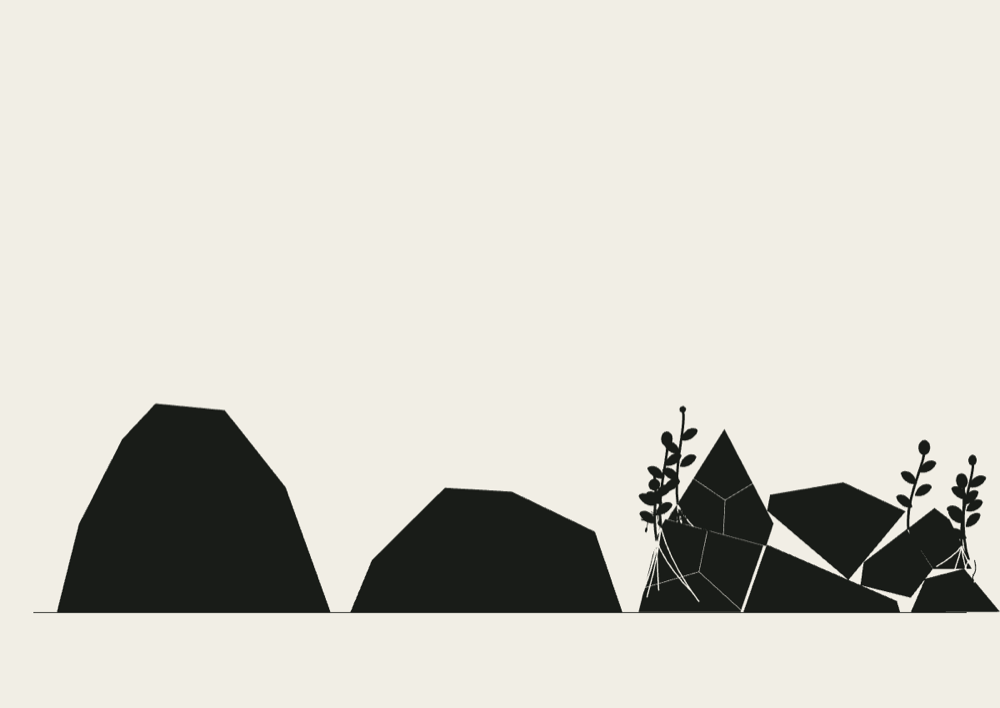
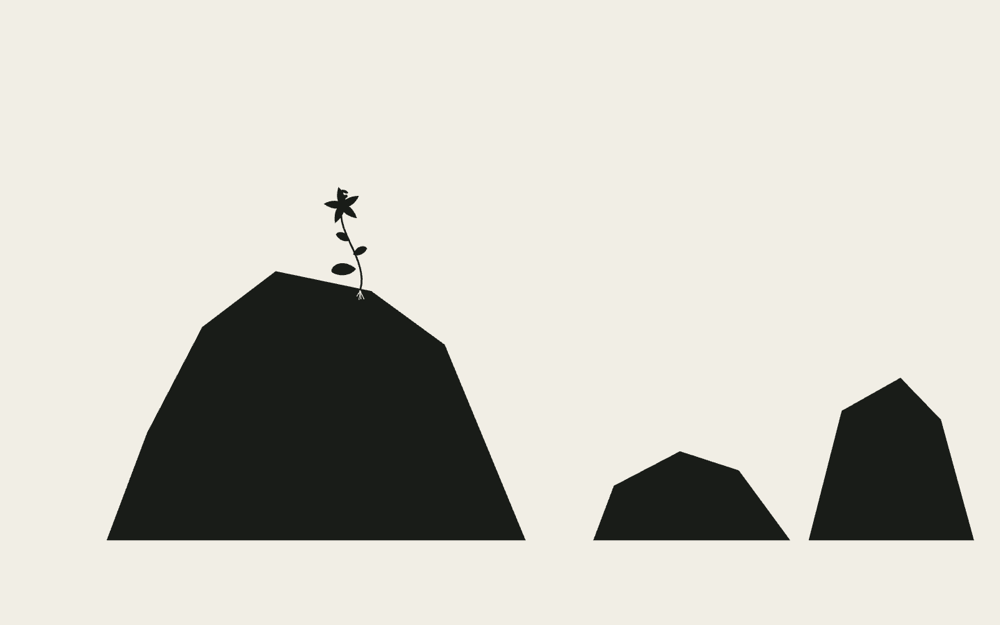
ruin

Changed region(s): [[0.031, 0.304, 1.0, 0.8816]]

diff --git a/pieces/061-root-ruin/sketch.js b/pieces/061-root-ruin/sketch.js
@@ -6,16 +6,17 @@ const ink='#191c18',paper='#f1eee5',W=1200,H=850,floor=735;
 const rand=(a,b)=>a+Math.random()*(b-a),clamp=(x,a,b)=>Math.max(a,Math.min(b,x));
 const ease=x=>{x=clamp(x,0,1);return x*x*(3-2*x);};
 let engine,rocks=[],plants=[],fruits=[],seeds=[],dust=[],time=0,last=0,accumulator=0,scale=1,ox=0,oy=0;
+let quietUntil=0,nextBirth=0,lastFracture=-100,hero=null,cameraX=W/2,cameraZoom=1;
 let paused=matchMedia('(prefers-reduced-motion: reduce)').matches,fractures=0,impactQueue=new Set();
 function resize(){const d=Math.min(devicePixelRatio||1,2);canvas.width=innerWidth*d;canvas.height=innerHeight*d;scale=Math.min(innerWidth/W,innerHeight/H);ox=(innerWidth-W*scale)/2;oy=(innerHeight-H*scale)/2;}
 function world(b,p){const c=Math.cos(b.angle),s=Math.sin(b.angle);return {x:b.position.x+p.x*c-p.y*s,y:b.position.y+p.x*s+p.y*c};}
 function local(b,p){const c=Math.cos(b.angle),s=Math.sin(b.angle),x=p.x-b.position.x,y=p.y-b.position.y;return {x:x*c+y*s,y:-x*s+y*c};}
 function polygon(v){ctx.beginPath();ctx.moveTo(v[0].x,v[0].y);for(let i=1;i<v.length;i++)ctx.lineTo(v[i].x,v[i].y);ctx.closePath();}
 function clip(poly,n,c){const out=[];for(let i=0;i<poly.length;i++){const a=poly[i],b=poly[(i+1)%poly.length],da=a.x*n.x+a.y*n.y-c,db=b.x*n.x+b.y*n.y-c;if(da<=1e-8)out.push({x:a.x,y:a.y});if((da<0)!==(db<0)){const t=da/(da-db);out.push({x:a.x+(b.x-a.x)*t,y:a.y+(b.y-a.y)*t});}}return out;}
-function makeRock(vertices,options={}){const center=Vertices.centre(vertices),body=Bodies.fromVertices(center.x,center.y,[vertices],{density:.003,friction:.65,frictionStatic:1,restitution:.12,frictionAir:.002,slop:.02,isStatic:!!options.fixed},false,0,0,0);
+function makeRock(vertices,options={}){const center=Vertices.centre(vertices),body=Bodies.fromVertices(center.x,center.y,[vertices],{density:.006,friction:.82,frictionStatic:1.2,restitution:.035,frictionAir:.004,slop:.02,isStatic:!!options.fixed},false,0,0,0);
  const rock={body,depth:options.depth||0,stress:0,strength:rand(.95,1.25),born:time,cells:null};body.plugin.rock=rock;rocks.push(rock);Composite.add(engine.world,body);return rock;}
 // Voronoi clipping partitions the parent's actual volume. No area is deleted.
-function planFracture(rock){if(rock.cells)return rock.cells;const b=rock.body,poly=b.vertices.map(v=>local(b,v)),center=Vertices.centre(poly),radius=Math.sqrt(b.area),n=b.area>26000?5:3,sites=[];
+function planFracture(rock){if(rock.cells)return rock.cells;const b=rock.body,poly=b.vertices.map(v=>local(b,v)),center=Vertices.centre(poly),radius=Math.sqrt(b.area),n=3,sites=[];
  const phase=rand(0,Math.PI*2);for(let i=0;i<n;i++){const a=phase+i*Math.PI*2/n,r=radius*rand(.17,.29);sites.push({x:center.x+Math.cos(a)*r,y:center.y+Math.sin(a)*r});}
  const cells=sites.map((site,i)=>{let v=poly;for(let j=0;j<n;j++){if(i===j)continue;const other=sites[j],normal={x:other.x-site.x,y:other.y-site.y},c=(other.x*other.x+other.y*other.y-site.x*site.x-site.y*site.y)/2;v=clip(v,normal,c);if(v.length<3)break;}return v;});
  if(cells.some(v=>v.length<3||Vertices.area(v)<280))return null;
@@ -27,52 +28,73 @@ function fracture(rock){if(!rocks.includes(rock)||rocks.length>100||rock.body.ar
  const children=pieces.map(v=>makeRock(v,{depth:rock.depth+1}));
  for(const child of children){const q=child.body,dx=q.position.x-b.position.x,dy=q.position.y-b.position.y;
  // A small root wedge separates the fracture. Gravity and contacts do the rest.
- Body.setVelocity(q,{x:velocity.x-omega*dy+dx*.003,y:velocity.y+omega*dx+dy*.003});Body.setAngularVelocity(q,omega);}
+ Body.setVelocity(q,{x:velocity.x-omega*dy+dx*.0007,y:velocity.y+omega*dx+dy*.0007});Body.setAngularVelocity(q,omega);
+ if(attachments.length){const radius=Math.sqrt(b.area);child.wedge={until:time+2.2,point:local(q,attachments[0].base),force:{x:dx/radius*.00045,y:dy/radius*.00045}};}}
+
  for(const {p,base,angle} of attachments){const inward={x:base.x-Math.sin(angle)*3,y:base.y+Math.cos(angle)*3};let child=children.find(r=>Vertices.contains(r.body.vertices,inward));
  if(!child)child=children.reduce((best,r)=>Math.hypot(r.body.position.x-base.x,r.body.position.y-base.y)<Math.hypot(best.body.position.x-base.x,best.body.position.y-base.y)?r:best);
  p.rock=child;p.anchor=local(child.body,base);p.orientation=angle-child.body.angle;}
- for(let i=0;i<18;i++)dust.push({x:b.position.x+rand(-20,20),y:b.position.y+rand(-20,20),vx:rand(-40,40),vy:rand(-35,10),life:rand(.5,1.5)});
- fractures++;return true;}
-function reset(){if(engine){Events.off(engine);Engine.clear(engine);}engine=Engine.create({enableSleeping:true,positionIterations:10,velocityIterations:8});engine.gravity.y=1;engine.gravity.scale=.0006;
- rocks=[];plants=[];fruits=[];seeds=[];dust=[];time=0;accumulator=0;fractures=0;impactQueue.clear();
- Composite.add(engine.world,[Bodies.rectangle(600,floor+35,1400,70,{isStatic:true,friction:.85}),Bodies.rectangle(-35,400,70,1000,{isStatic:true}),Bodies.rectangle(1235,400,70,1000,{isStatic:true})]);
- const count=Math.floor(rand(2,5)),span=1050/count;
- for(let i=0;i<count;i++){const left=65+i*span+rand(0,12),right=65+(i+1)*span-rand(18,34),width=right-left,height=rand(145,280),points=[{x:left,y:floor},{x:left+width*.08,y:floor-height*.42},{x:left+width*rand(.18,.28),y:floor-height*rand(.7,.85)},{x:left+width*rand(.34,.43),y:floor-height},{x:left+width*rand(.55,.68),y:floor-height*rand(.88,.97)},{x:left+width*rand(.8,.9),y:floor-height*rand(.5,.7)},{x:right,y:floor}];makeRock(Vertices.hull(points),{fixed:true});}
- const start=rocks[Math.floor(rand(0,rocks.length))],x=rand(start.body.bounds.min.x+35,start.body.bounds.max.x-35);addPlant(ground(x),0);plants[0].age=1.5;
- Events.on(engine,'collisionStart',event=>{for(const pair of event.pairs){const a=pair.bodyA,b=pair.bodyB,speed=Math.hypot(a.velocity.x-b.velocity.x,a.velocity.y-b.velocity.y);if(speed<5.5)continue;for(const body of [a,b]){const r=body.plugin.rock;if(r&&!body.isStatic&&r.depth<3&&body.area>3500&&time-r.born>2.5)impactQueue.add(r);}}});}
+ for(let i=0;i<10;i++)dust.push({x:b.position.x+rand(-20,20),y:b.position.y+rand(-20,20),vx:rand(-12,12),vy:rand(-8,5),life:rand(.5,1.5)});
+ fractures++;lastFracture=time;return true;}
+function reset(){if(engine){Events.off(engine);Engine.clear(engine);}engine=Engine.create({enableSleeping:true,positionIterations:10,velocityIterations:8});engine.gravity.y=1;engine.gravity.scale=.00055;
+ rocks=[];plants=[];fruits=[];seeds=[];dust=[];time=0;accumulator=0;fractures=0;impactQueue.clear();quietUntil=0;nextBirth=0;lastFracture=-100;hero=null;cameraX=W/2;cameraZoom=1;
+ Composite.add(engine.world,[Bodies.rectangle(600,floor+35,1400,70,{isStatic:true,friction:.85}),Bodies.rectangle(-135,400,70,1000,{isStatic:true}),Bodies.rectangle(1335,400,70,1000,{isStatic:true})]);
+ // One dominant, off-centre formation; lower outcrops leave a valley for seeds.
+ const mirror=Math.random()<.35,dx=rand(-20,20),rise=rand(-16,16);
+ function formation(points){const v=points.map(([x,y])=>({x:mirror?W-x:x+dx,y:y+rise*(y<floor?1:0)}));return makeRock(Vertices.hull(v),{fixed:true});}
+ const start=formation([[80,floor],[135,590],[210,446],[310,370],[440,397],[540,470],[650,floor]]);
+ formation([[742,floor],[770,662],[860,615],[940,641],[1010,floor]]);
+ formation([[1035,floor],[1080,560],[1160,515],[1215,572],[1260,floor]]);
+ const x=mirror?W-(425+dx):425+dx;addPlant(ground(x),0);hero=plants[0];hero.hero=true;hero.height=110;hero.lean=-24;hero.petals=5;hero.leafCount=3;hero.age=3;
+ Events.on(engine,'collisionStart',event=>{for(const pair of event.pairs){const a=pair.bodyA,b=pair.bodyB,speed=Math.hypot(a.velocity.x-b.velocity.x,a.velocity.y-b.velocity.y);if(speed<8.5)continue;for(const body of [a,b]){const r=body.plugin.rock;if(r&&!body.isStatic&&r.depth<3&&body.area>3500&&time-r.born>8)impactQueue.add(r);}}});}
 function ground(x){let hit=null;for(const rock of rocks){const v=rock.body.vertices;if(x<rock.body.bounds.min.x||x>rock.body.bounds.max.x)continue;for(let i=0;i<v.length;i++){const a=v[i],b=v[(i+1)%v.length];if(x<Math.min(a.x,b.x)||x>Math.max(a.x,b.x)||Math.abs(b.x-a.x)<.001)continue;const y=a.y+(b.y-a.y)*(x-a.x)/(b.x-a.x);if(!hit||y<hit.y)hit={x,y,rock};}}return hit;}
-function addPlant(hit,generation){if(!hit||plants.filter(p=>!p.dead).length>=48)return;const b=hit.rock.body;plants.push({rock:hit.rock,anchor:local(b,hit),orientation:-b.angle,age:0,height:rand(65,100),lean:rand(-15,15),generation,cycle:0,dead:false,roots:Array.from({length:4},()=>({dx:rand(-65,65),dy:rand(50,125)}))});}
+function addPlant(hit,generation){if(!hit||plants.filter(p=>!p.dead).length>=9||time<quietUntil)return;const b=hit.rock.body;plants.push({rock:hit.rock,anchor:local(b,hit),orientation:-b.angle,age:0,height:rand(62,96),lean:rand(-24,22),hero:false,petals:Math.floor(rand(4,7)),leafCount:Math.floor(rand(3,6)),shape:rand(.7,1.3),period:rand(72,88),generation,cycle:0,dead:false,roots:Array.from({length:4},()=>({dx:rand(-65,65),dy:rand(50,125)}))});}
 function plantBase(p){return world(p.rock.body,p.anchor);}
 function plantAngle(p){return p.rock.body.angle+p.orientation;}
-function plantHeight(p){return (p.height+Math.min(55,p.age*.25))*ease(p.age/6);}
+function plantHeight(p){return (p.height+Math.min(25,p.age*.09))*ease(p.age/18);}
 function plantPoint(p,x,y){const base=plantBase(p),a=plantAngle(p);return {x:base.x+x*Math.cos(a)-y*Math.sin(a),y:base.y+x*Math.sin(a)+y*Math.cos(a)};}
-function plantTop(p){return plantPoint(p,p.lean*ease(p.age/6),-plantHeight(p));}
-function killPlant(p){if(p.dead)return;p.dead=true;p.died=time;const top=plantTop(p);for(let i=0;i<7;i++)dust.push({x:top.x+rand(-8,8),y:top.y,vx:rand(-20,20),vy:rand(-8,10),life:rand(.6,1.5)});}
+function plantTop(p){return plantPoint(p,p.lean*ease(p.age/18),-plantHeight(p));}
+function killPlant(p){if(p.dead)return;p.dead=true;p.died=time;p.deathHeight=plantHeight(p);quietUntil=Math.max(quietUntil,time+(p.hero?24:14));const top=plantTop(p);for(let i=0;i<3;i++)dust.push({x:top.x+rand(-8,8),y:top.y,vx:rand(-20,20),vy:rand(-8,10),life:rand(.6,1.5)});}
 function checkBurials(){for(const p of plants){if(p.dead)continue;const base=plantBase(p),top=plantTop(p);if(base.y>floor+5||top.y>floor+8){killPlant(p);continue;}for(const r of rocks){if(r===p.rock)continue;const b=r.body;if(b.bounds.max.x<Math.min(base.x,top.x)-2||b.bounds.min.x>Math.max(base.x,top.x)+2||b.bounds.max.y<Math.min(base.y,top.y)||b.bounds.min.y>Math.max(base.y,top.y))continue;
  if([.12,.25,.4,.55,.7,.85,1].some(t=>Vertices.contains(b.vertices,{x:base.x+(top.x-base.x)*t,y:base.y+(top.y-base.y)*t}))){killPlant(p);break;}}}}
-function dropFruit(p){if(fruits.length>=65)return;const top=plantTop(p),body=Bodies.circle(top.x,top.y+3,7,{density:.0005,friction:.35,frictionStatic:.8,restitution:.2,frictionAir:.003});Body.setVelocity(body,Body.getVelocity(p.rock.body));Composite.add(engine.world,body);fruits.push({body,x:top.x,y:top.y,age:0,rest:0,melt:0,generation:p.generation+1,spawned:false});}
-function puff(f){for(let i=0;i<9&&seeds.length<180;i++)seeds.push({x:f.x+rand(-9,9),y:f.y-6,vx:rand(-30,30),vy:rand(-60,-35),drift:rand(-25,25),phase:rand(0,6.28),age:0,generation:f.generation});}
-function step(dt){time+=dt;Engine.update(engine,dt*1000);
- for(const r of impactQueue)fracture(r);impactQueue.clear();
- for(const p of plants){if(p.dead)continue;p.age+=dt;const r=p.rock;if(r.body.area>1600&&r.depth<4){r.stress+=dt*.027*ease((p.age-8)/20);if(r.stress>.25&&!r.cells)planFracture(r);if(r.stress>=r.strength){if(!fracture(r))r.stress=0;}}
- const cycle=Math.floor(Math.max(0,p.age-3)/24),phase=Math.max(0,p.age-3)%24;if(phase>=17&&cycle>=p.cycle){p.cycle=cycle+1;dropFruit(p);}}
+function dropFruit(p){if(fruits.length>=12)return;const top=plantTop(p),body=Bodies.circle(top.x,top.y+3,7,{density:.0005,friction:.35,frictionStatic:.8,restitution:.2,frictionAir:.003});Body.setVelocity(body,Body.getVelocity(p.rock.body));Composite.add(engine.world,body);fruits.push({body,x:top.x,y:top.y,age:0,rest:0,melt:0,generation:p.generation+1,spawned:false});}
+function puff(f){for(let i=0;i<3&&seeds.length<24;i++)seeds.push({x:f.x+rand(-9,9),y:f.y-6,vx:rand(-30,30),vy:rand(-60,-35),drift:rand(-25,25),phase:rand(0,6.28),age:0,generation:f.generation});}
+function step(dt){time+=dt;
+ // Roots prise the split open for a moment, applying force at the root pocket.
+ // Equal, mass-weighted forces transfer into rotation and contact with neighbours.
+ for(const r of rocks){if(r.wedge&&time<r.wedge.until){const fade=1-ease((time-(r.wedge.until-2.2))/2.2);Body.applyForce(r.body,world(r.body,r.wedge.point),{x:r.wedge.force.x*r.body.mass*fade,y:r.wedge.force.y*r.body.mass*fade});}}
+ Engine.update(engine,dt*1000);
+ for(const r of impactQueue)if(time-lastFracture>10&&time>quietUntil)fracture(r);impactQueue.clear();
+ for(const p of plants){if(p.dead)continue;p.age+=dt*(time<quietUntil?.15:1);const r=p.rock;if(r.body.area>1600&&r.depth<4){if(time>quietUntil)r.stress+=dt*.012*ease((p.age-38)/55);if(r.stress>.25&&!r.cells)planFracture(r);if(r.stress>=r.strength&&time-lastFracture>12&&time>quietUntil){if(!fracture(r))r.stress=0;}}
+ const period=p.hero?72:p.period,cycle=Math.floor(Math.max(0,p.age-12)/period),phase=Math.max(0,p.age-12)%period;if(phase>=42&&cycle>=p.cycle){p.cycle=cycle+1;dropFruit(p);}}
  checkBurials();
- for(const f of fruits){f.age+=dt;if(f.melt){f.melt+=dt;if(f.melt>1.8&&!f.spawned){f.spawned=true;puff(f);}continue;}f.x=f.body.position.x;f.y=f.body.position.y;const speed=Body.getSpeed(f.body);f.rest=speed<.12?f.rest+dt:0;if(f.rest>1.4||(f.age>14&&speed<.4)){f.melt=.001;Composite.remove(engine.world,f.body);}}
- for(const s of seeds){s.age+=dt;const oldY=s.y,wind=35*Math.sin(time*.035)+22*Math.sin(time*.11)+s.drift;s.vx+=(wind-s.vx)*dt*.55;const target=s.age<2.5?-18:s.age<12?3:13;s.vy+=(target+Math.sin(s.age*2+s.phase)*3-s.vy)*dt*.9;s.x+=s.vx*dt;s.y+=s.vy*dt;if(s.age>2.5&&s.vy>0){const hit=ground(s.x);if(hit&&oldY<=hit.y+3&&s.y>=hit.y-1){if(!plants.some(p=>!p.dead&&Math.hypot(plantBase(p).x-s.x,plantBase(p).y-s.y)<12))addPlant(hit,s.generation);s.landed=true;}}}
- seeds=seeds.filter(s=>!s.landed&&s.age<65&&s.x>-60&&s.x<W+60);fruits=fruits.filter(f=>f.melt<4);plants=plants.filter(p=>!p.dead||time-p.died<3);
+ for(const f of fruits){f.age+=dt;if(f.melt){f.melt+=dt;if(f.melt>3.5&&!f.spawned){f.spawned=true;puff(f);}continue;}f.x=f.body.position.x;f.y=f.body.position.y;const speed=Body.getSpeed(f.body);f.rest=speed<.12?f.rest+dt:0;if(f.rest>3.5||(f.age>14&&speed<.4)){f.melt=.001;Composite.remove(engine.world,f.body);}}
+ for(const s of seeds){s.age+=dt;const oldY=s.y,wind=22*Math.sin(time*.025)+14*Math.sin(time*.08)+s.drift;s.vx+=(wind-s.vx)*dt*.55;const target=s.age<2.5?-18:s.age<12?3:13;s.vy+=(target+Math.sin(s.age*2+s.phase)*3-s.vy)*dt*.9;s.x+=s.vx*dt;s.y+=s.vy*dt;if(s.age>2.5&&s.vy>0){const hit=ground(s.x);if(hit&&oldY<=hit.y+3&&s.y>=hit.y-1){if(time>=nextBirth&&time>=quietUntil&&!plants.some(p=>Math.hypot(plantBase(p).x-s.x,plantBase(p).y-s.y)<65)){const count=plants.length;addPlant(hit,s.generation);if(plants.length>count)nextBirth=time+18;}s.landed=true;}}}
+ seeds=seeds.filter(s=>!s.landed&&s.age<65&&s.x>-60&&s.x<W+60);fruits=fruits.filter(f=>f.melt<6);plants=plants.filter(p=>!p.dead||time-p.died<75);
+ if(fractures){let left=0,right=W;for(const p of plants){const top=plantTop(p),base=plantBase(p);left=Math.min(left,top.x-35,base.x-35);right=Math.max(right,top.x+35,base.x+35);}const targetZoom=Math.min(1,W/(right-left+30)),follow=1-Math.exp(-dt*.7);cameraZoom+=(targetZoom-cameraZoom)*follow;cameraX+=((left+right)/2-cameraX)*follow;}
  for(const d of dust){d.life-=dt;d.vy+=100*dt;d.x+=d.vx*dt;d.y+=d.vy*dt;}dust=dust.filter(d=>d.life>0).slice(-250);}
 function ellipse(x,y,rx,ry,a=0){ctx.beginPath();ctx.ellipse(x,y,Math.max(.01,rx),Math.max(.01,ry),a,0,Math.PI*2);ctx.fill();}
 function leaf(x,y,size,dir){ctx.beginPath();ctx.moveTo(x,y);ctx.bezierCurveTo(x+dir*size*.2,y-size*.9,x+dir*size,y-size*.8,x+dir*size,y-size*.55);ctx.bezierCurveTo(x+dir*size*.8,y-size*.05,x+dir*size*.3,y+size*.1,x,y);ctx.fill();}
-function drawPlant(p){const base=plantBase(p);ctx.save();ctx.translate(base.x,base.y);ctx.rotate(plantAngle(p));ctx.strokeStyle=ink;ctx.fillStyle=ink;ctx.lineCap='round';if(p.dead){ctx.globalAlpha=1-ease((time-p.died)/3);ctx.lineWidth=2;ctx.beginPath();ctx.moveTo(0,0);ctx.lineTo(12,-5);ctx.lineTo(22,-2);ctx.stroke();ctx.restore();return;}
- const g=ease(p.age/6),height=plantHeight(p),x=p.lean*g,y=-height;ctx.lineWidth=2.5*g+.5;ctx.beginPath();ctx.moveTo(0,2);ctx.bezierCurveTo(-6,-height*.4,x+5,y+20,x,y);ctx.stroke();for(let i=0;i<4;i++){const u=.25+i*.14;leaf(x*u,-height*u,20*g*ease((p.age-i*.6)/4),i%2?1:-1);}
- const phase=Math.max(0,p.age-3)%24;if(p.age>3&&phase<17){const opening=ease((phase-1)/3)*(1-ease((phase-10)/3)),fruit=ease((phase-12)/3);for(let i=0;i<6;i++){const a=i*Math.PI/3-Math.PI/2;ellipse(x+Math.cos(a)*9*opening,y+Math.sin(a)*9*opening,3+5*opening,3+3*opening,a);}ellipse(x,y+fruit*4,3+4*fruit,4+5*fruit);}
- if(phase>5&&phase<12&&p.age>3){const arriving=ease((phase-5)/2),leaving=ease((phase-9)/3);ctx.save();ctx.translate(x+(phase<7?-150*(1-arriving):210*leaving),y-10-(phase<7?45*(1-arriving):90*leaving));const wing=phase<7||phase>9?Math.sin(time*45)*.6:0;ellipse(-2,-6,6,2.5,-.5-wing);ellipse(3,-7,5,2.5,.4+wing);ellipse(0,0,7,3.5);ellipse(6,-1,2.5,2.5);ctx.restore();}ctx.restore();}
+function drawPlant(p){const base=plantBase(p);ctx.save();ctx.translate(base.x,base.y);ctx.rotate(plantAngle(p));ctx.strokeStyle=ink;ctx.fillStyle=ink;ctx.lineCap='round';
+ if(p.dead){const since=time-p.died,wilt=ease(since/12),h=p.deathHeight;ctx.globalAlpha=1-ease((since-55)/20);ctx.lineWidth=1.8;ctx.beginPath();ctx.moveTo(0,0);ctx.bezierCurveTo(p.lean*.4,-h*.4,p.lean+30*wilt,-h*.9,p.lean+48*wilt,-h*(1-.58*wilt));ctx.stroke();leaf(p.lean*.3,-h*.35,12,-1);ellipse(p.lean+48*wilt,-h*(1-.58*wilt),3,5,.7*wilt);ctx.restore();return;}
+ const g=ease(p.age/18),height=plantHeight(p),x=p.lean*g,y=-height;
+ // The first stem has a recognisable crook and one long, downward-curled leaf.
+ ctx.lineWidth=1.6+.8*g;ctx.beginPath();ctx.moveTo(0,2);ctx.bezierCurveTo(p.hero?12:-5,-height*.35,x-12,y+height*.3,x,y);ctx.stroke();
+ for(let i=0;i<p.leafCount;i++){const u=.24+i*.17,dir=i%2?1:-1,size=(p.hero?(i===0?29:18):17*p.shape)*g*ease((p.age-3-i*3)/13);ctx.save();ctx.translate(x*u,-height*u);ctx.rotate(p.hero&&i===0?-.65:dir*.12);leaf(0,0,size,dir);ctx.restore();}
+ const period=p.hero?72:p.period,phase=Math.max(0,p.age-12)%period;
+ if(p.age>12&&phase<42){const opening=ease((phase-4)/9)*(1-ease((phase-28)/8)),fruit=ease((phase-34)/7);ctx.save();ctx.translate(x,y);ctx.rotate(p.hero?-.22:.12);for(let i=0;i<p.petals;i++){const a=i*Math.PI*2/p.petals;ctx.save();ctx.rotate(a);ctx.beginPath();ctx.moveTo(-2,0);ctx.bezierCurveTo(-8*opening,-8*opening,-4*opening,-19*opening,0,-23*opening-3);ctx.bezierCurveTo(6*opening,-17*opening,8*opening,-5*opening,2,0);ctx.fill();ctx.restore();}ellipse(0,fruit*4,3+4*fruit,4+5*fruit);ctx.restore();}
+ // A single visitor arrives slowly, rests, and then leaves the flower alone.
+ if(phase>15&&phase<28&&p.age>12){const arriving=ease((phase-15)/5),leaving=ease((phase-24)/4);ctx.save();ctx.translate(x+(phase<20?-180*(1-arriving):240*leaving),y-12-(phase<20?50*(1-arriving):110*leaving));const wing=phase<20||phase>24?Math.sin(time*40)*.5:0;ellipse(-2,-6,6,2,-.5-wing);ellipse(3,-7,5,2,.4+wing);ellipse(0,0,6,3);ellipse(5,-1,2,2);ctx.restore();}ctx.restore();}
+function drawFaults(r){if(!r.cells||r.stress<.35)return;const original=r.body.vertices,progress=ease((r.stress-.35)/(r.strength-.35)),segments=[];
+ for(const cell of r.cells){const v=cell.map(p=>world(r.body,p));for(let i=0;i<v.length;i++){const a=v[i],b=v[(i+1)%v.length],mid={x:(a.x+b.x)/2,y:(a.y+b.y)/2};let boundary=false;for(let j=0;j<original.length;j++){const p=original[j],q=original[(j+1)%original.length],dx=q.x-p.x,dy=q.y-p.y,t=clamp(((mid.x-p.x)*dx+(mid.y-p.y)*dy)/(dx*dx+dy*dy),0,1);if(Math.hypot(mid.x-p.x-dx*t,mid.y-p.y-dy*t)<.5)boundary=true;}if(!boundary&&!segments.some(e=>Math.hypot(e.mid.x-mid.x,e.mid.y-mid.y)<1))segments.push({a,b,mid});}}
+ const root=plants.find(p=>!p.dead&&p.rock===r),origin=root?plantBase(root):r.body.position;segments.sort((a,b)=>Math.hypot(a.mid.x-origin.x,a.mid.y-origin.y)-Math.hypot(b.mid.x-origin.x,b.mid.y-origin.y));
+ ctx.lineWidth=.7;for(let i=0;i<segments.length;i++){let {a,b}=segments[i];if(Math.hypot(b.x-origin.x,b.y-origin.y)<Math.hypot(a.x-origin.x,a.y-origin.y))[a,b]=[b,a];const t=clamp(progress*segments.length-i,0,1);if(!t)continue;ctx.beginPath();ctx.moveTo(a.x,a.y);ctx.lineTo(a.x+(b.x-a.x)*t,a.y+(b.y-a.y)*t);ctx.stroke();}}
 function drawSeed(s){ctx.save();ctx.translate(s.x,s.y);ctx.rotate(Math.sin(s.age*1.8+s.phase)*.25+s.vx*.004);ctx.strokeStyle=ink;ctx.fillStyle=ink;ctx.lineWidth=.75;ctx.beginPath();ctx.moveTo(0,3);ctx.lineTo(0,-7);for(let i=0;i<9;i++){const a=-Math.PI+Math.PI*i/8,x=Math.cos(a)*8,y=-7+Math.sin(a)*5;ctx.moveTo(0,-6);ctx.lineTo(x,y);ctx.moveTo(x-1,y-1);ctx.lineTo(x+1,y+1);}ctx.stroke();ellipse(0,4,1.4,3);ctx.restore();}
-function draw(){ctx.setTransform(canvas.width/innerWidth,0,0,canvas.height/innerHeight,0,0);ctx.fillStyle=paper;ctx.fillRect(0,0,innerWidth,innerHeight);ctx.save();ctx.translate(ox,oy);ctx.scale(scale,scale);ctx.fillStyle=ink;ctx.fillRect(40,floor,W-80,1);
+function draw(){ctx.setTransform(canvas.width/innerWidth,0,0,canvas.height/innerHeight,0,0);ctx.fillStyle=paper;ctx.fillRect(0,0,innerWidth,innerHeight);ctx.save();ctx.translate(ox,oy);ctx.scale(scale,scale);ctx.translate(W/2,floor);ctx.scale(cameraZoom,cameraZoom);ctx.translate(-cameraX,-floor);ctx.fillStyle=ink;
  for(const p of plants)drawPlant(p);
- for(const r of rocks){ctx.fillStyle=ink;polygon(r.body.vertices);ctx.fill();ctx.save();polygon(r.body.vertices);ctx.clip();ctx.strokeStyle=paper;ctx.lineWidth=.7;if(r.cells&&r.stress>.3){ctx.globalAlpha=ease((r.stress-.3)/.7);for(const cell of r.cells){polygon(cell.map(v=>world(r.body,v)));ctx.stroke();}ctx.globalAlpha=1;}
- for(const p of plants){if(p.dead||p.rock!==r)continue;const base=plantBase(p);ctx.save();ctx.translate(base.x,base.y);ctx.rotate(plantAngle(p));ctx.lineWidth=1.5;ctx.beginPath();for(const root of p.roots){const g=ease((p.age-2)/30);ctx.moveTo(0,2);ctx.quadraticCurveTo(root.dx*g*.25,root.dy*g*.5,root.dx*g,root.dy*g);}ctx.stroke();ctx.restore();}ctx.restore();}
- for(const f of fruits){ctx.fillStyle=ink;const m=ease(f.melt/1.8);ellipse(f.x,f.y+7*m,7*(1+1.5*m),7*(1-.88*m),f.melt?0:f.body.angle);}
+ for(const r of rocks){ctx.fillStyle=ink;polygon(r.body.vertices);ctx.fill();ctx.save();polygon(r.body.vertices);ctx.clip();ctx.strokeStyle=paper;drawFaults(r);
+ for(const p of plants){if(p.dead||p.rock!==r)continue;const base=plantBase(p);ctx.save();ctx.translate(base.x,base.y);ctx.rotate(plantAngle(p));ctx.lineWidth=1;ctx.beginPath();for(const root of p.roots){const g=ease((p.age-18)/75);ctx.moveTo(0,2);ctx.quadraticCurveTo(root.dx*g*.25,root.dy*g*.5,root.dx*g,root.dy*g);}ctx.stroke();ctx.restore();}ctx.restore();}
+ for(const f of fruits){ctx.fillStyle=ink;const m=ease(f.melt/3.5);ellipse(f.x,f.y+7*m,7*(1+1.5*m),7*(1-.88*m),f.melt?0:f.body.angle);}
  for(const s of seeds)drawSeed(s);ctx.fillStyle=ink;for(const d of dust){ctx.globalAlpha=clamp(d.life,0,1);ctx.fillRect(d.x,d.y,2,2);}ctx.globalAlpha=1;ctx.restore();}
 function save(){draw();canvas.toBlob(blob=>{if(!blob)return;const url=URL.createObjectURL(blob),a=document.createElement('a');a.href=url;a.download='root-ruin.png';a.click();setTimeout(()=>URL.revokeObjectURL(url),1000);});}
 addEventListener('keydown',e=>{if(e.code==='Space'){e.preventDefault();paused=!paused;}if(e.key.toLowerCase()==='r')reset();if(e.key.toLowerCase()==='s')save();});addEventListener('resize',resize);document.addEventListener('visibilitychange',()=>{last=0;accumulator=0;});

diff --git a/manifest.js b/manifest.js
@@ -752,7 +752,7 @@ window.HMC_MANIFEST = {
       "type": "generative",
       "wip": true,
       "thumbnail": "thumbnail.png",
-      "description": "Plants grow on angular rock formations and spread floating dandelion-like seeds. Roots split solid rocks into physical chunks that tumble, collide and pile up. Plants remain attached to their rotating rock and die when crushed. Space pauses; R makes a new landscape; S saves an image.",
+      "description": "One crooked plant flowers alone above an uneven rock landscape. Sparse drifting seeds carry life onward as roots slowly prise apart heavy stone. Plants stay rooted to tumbling fragments; a crushed plant leaves a lingering withered stem and a pause in new growth. All silhouette, no visible text.",
       "updated": "2026-10-15"
     },
     {

diff --git a/pieces/061-root-ruin/README.md b/pieces/061-root-ruin/README.md
@@ -1,12 +1,17 @@
 # Root / Ruin
 
-Two to four angular rock formations begin each scene. Their outlines, heights and widths vary, and one small plant starts at a random surface position. Flowers open, bees land and leave, fruit forms and drops. Fruit rolls and settles, then releases a puff of dandelion-like seeds that drift between rocks and germinate when they land.
+One crooked plant begins alone on a dominant, off-centre rock. A low outcrop and a taller, cropped formation frame the valley beyond. The composition varies in position, height and occasional mirroring. The first plant has a long curled leaf and a five-petaled flower; later plants vary in stature, lean, leaves and petals.
+
+The opening takes time: growth unfolds over 18 seconds, the flower opens gradually, and a bee arrives, rests and leaves before the first fruit falls around 50 seconds into the scene. Each fruit releases just three drifting seeds. New plants are spaced at least 65 world units apart, births are separated by 18 seconds, and at most nine plants live at once. Life cycles last roughly 72–88 seconds.
+
+After a plant dies, its stem bends over 12 seconds and remains for 75 seconds. Germination and root pressure pause for 14 seconds, or 24 seconds for the first plant; other plants grow much more slowly during that interval. Surviving seeds keep drifting. Loss is determined by physical contact, not a scripted death.
+
 
 ## Rock and plant physics
 
-Each intact formation is one solid polygon. Root pressure reveals a fracture pattern, then divides the actual outline into three to five convex pieces using Voronoi clipping. The child polygons preserve the parent's total area and inherit its motion. A small separating impulse represents the root wedge. From there, gravity, inertia, angular motion, friction and rock-to-rock collisions make the pieces tip, tumble, collide and form piles. Large fragments can split again under roots or sufficiently hard impacts. Rubble stays in the scene; minimum fragment size and a body limit bound the simulation.
+Each intact formation is one solid polygon. Root pressure reveals a fracture pattern, then divides the actual outline into three broad convex pieces using Voronoi clipping. The child polygons preserve the parent's total area and inherit its motion. A small separating impulse and a brief force at the root pocket prise the split apart. Hairline cracks reveal internal seams progressively; the entire subdivision is not outlined at once. Higher friction and lower restitution reduce bouncing, and fractures are spaced at least 12 seconds apart during growth. From there, gravity, inertia, angular motion, friction and rock-to-rock collisions make the pieces tip, tumble, collide and form piles. Large fragments can split again under roots or sufficiently hard impacts. Rubble stays in the scene; minimum fragment size and a body limit bound the simulation.
 
-Plants store a fixed attachment point and orientation in their supporting rock's local coordinates. They translate and rotate with that body. When a rock fractures, the plant transfers to the child containing its root without changing its world position or orientation. The stem is never repositioned using a terrain-height lookup. Rock overlapping a stem, or a rock rolling its plant into the floor, kills the plant. Dead plants stop growing, fruiting and applying root pressure, then wilt and fade.
+Plants store a fixed attachment point and orientation in their supporting rock's local coordinates. They translate and rotate with that body. When a rock fractures, the plant transfers to the child containing its root without changing its world position or orientation. The stem is never repositioned using a terrain-height lookup. Rock overlapping a stem, or a rock rolling its plant into the floor, kills the plant. Dead plants stop growing, fruiting and applying root pressure. The framing eases outward if a falling plant approaches the edge of the view.
 
 Matter.js 0.20.0 supplies the rigid-body collision solver. Its minified distribution and MIT license are vendored in `vendor/`; the sketch makes no network requests and works directly from `index.html`. Intact formations are static until their first fracture. Fruit uses physical circle bodies in the same world. Floating seeds use a lightweight wind model.
 
@@ -16,6 +21,6 @@ There is no visible text or control interface.
 - **R** generates another landscape and starting plant.
 - **S** saves the canvas as a PNG.
 
-The simulation advances at 120 Hz, pauses while hidden, and starts paused for reduced-motion preferences. Limits: 48 living plants, 65 fruit, 180 airborne seeds, roughly 100 rock bodies and 250 dust particles.
+The simulation advances at 120 Hz, pauses while hidden, and starts paused for reduced-motion preferences. Limits: 9 living plants, 12 fruit, 24 airborne seeds, roughly 100 rock bodies and 250 dust particles.
 
-Run `node scripts/check-root-ruin.mjs` from the repository root to check stationary intact terrain, conserved fracture area, fixed rotating plant attachments, crushing, stable rubble contact and 150 seconds of natural growth.
+Run `node scripts/check-root-ruin.mjs` from the repository root to check stationary intact terrain, conserved fracture area, fixed rotating plant attachments, crushing, stable rubble contact and 240 seconds of natural growth and lingering dead stems.
